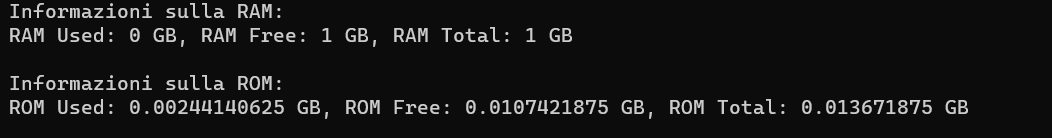
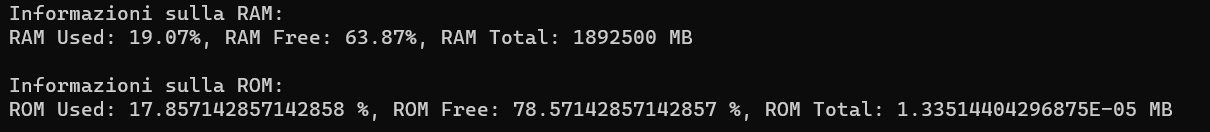
Aggiunta opzioni codice %

Changed region(s): [[0.0, 0.5455, 0.9734, 0.9091], [0.0, 0.1818, 0.5779, 0.3636], [0.0, 0.0, 0.2738, 0.1515]]

diff --git a/Lettura_dati_Raspberry/Lettura_dati_Raspberry/Data.cs b/Lettura_dati_Raspberry/Lettura_dati_Raspberry/Data.cs
@@ -33,7 +33,11 @@ class Data
                             ulong usedRam = ulong.Parse(values[2]);
                             ulong freeRam = ulong.Parse(values[3]);
 
-                            return $"RAM Used: {usedRam / (1024 * 1024)} GB, RAM Free: {freeRam / (1024 * 1024)} GB, RAM Total: {totalRam / (1024 * 1024)} GB";
+                            // Converti almeno uno dei valori in double per ottenere risultati decimali
+                            double usedRamPercentage = (double)usedRam / totalRam * 100;
+                            double freeRamPercentage = (double)freeRam / totalRam * 100;
+
+                            return $"RAM Used: {usedRamPercentage:F2}%, RAM Free: {freeRamPercentage:F2}%, RAM Total: {totalRam} MB";
                         }
                     }
                 }
@@ -46,6 +50,7 @@ class Data
             return $"Error: {ex.Message}";
         }
     }
+
 
 
     public string GetRomInfo()
@@ -78,11 +83,11 @@ class Data
                             string usedRomStr = values[2].TrimEnd('G');
                             string freeRomStr = values[3].TrimEnd('G');
 
-                            double totalRom = double.Parse(totalRomStr, CultureInfo.InvariantCulture) * 1024; // Convert GB to MB
-                            double usedRom = double.Parse(usedRomStr, CultureInfo.InvariantCulture) * 1024; // Convert GB to MB
-                            double freeRom = double.Parse(freeRomStr, CultureInfo.InvariantCulture) * 1024; // Convert GB to MB
+                            double totalRom = double.Parse(totalRomStr, CultureInfo.InvariantCulture); // Convert GB to MB
+                            double usedRom = double.Parse(usedRomStr, CultureInfo.InvariantCulture); // Convert GB to MB
+                            double freeRom = double.Parse(freeRomStr, CultureInfo.InvariantCulture); // Convert GB to MB
 
-                            return $"ROM Used: {usedRom / (1024 * 1024)} GB, ROM Free: {freeRom / (1024 * 1024)} GB, ROM Total: {totalRom / (1024 * 1024)} GB";
+                            return $"ROM Used: {(usedRom / totalRom) * 100} %, ROM Free: {(freeRom / totalRom) * 100} %, ROM Total: {totalRom / (1024 * 1024)} MB";
                         }
                     }
                 }

diff --git a/Readme.md b/Readme.md
@@ -94,7 +94,11 @@ public string GetRamInfo()
                         ulong usedRam = ulong.Parse(values[2]);
                         ulong freeRam = ulong.Parse(values[3]);
 
-                        return $"RAM Used: {usedRam / (1024 * 1024)} GB, RAM Free: {freeRam / (1024 * 1024)} GB, RAM Total: {totalRam / (1024 * 1024)} GB";
+                        // Converti almeno uno dei valori in double per ottenere risultati decimali
+                        double usedRamPercentage = (double)usedRam / totalRam * 100;
+                        double freeRamPercentage = (double)freeRam / totalRam * 100;
+
+                        return $"RAM Used: {usedRamPercentage:F2}%, RAM Free: {freeRamPercentage:F2}%, RAM Total: {totalRam} MB";
                     }
                 }
             }
@@ -142,11 +146,11 @@ public string GetRomInfo()
                         string usedRomStr = values[2].TrimEnd('G');
                         string freeRomStr = values[3].TrimEnd('G');
 
-                        double totalRom = double.Parse(totalRomStr, CultureInfo.InvariantCulture) * 1024; // Convert GB to MB
-                        double usedRom = double.Parse(usedRomStr, CultureInfo.InvariantCulture) * 1024; // Convert GB to MB
-                        double freeRom = double.Parse(freeRomStr, CultureInfo.InvariantCulture) * 1024; // Convert GB to MB
+                        double totalRom = double.Parse(totalRomStr, CultureInfo.InvariantCulture); // Convert GB to MB
+                        double usedRom = double.Parse(usedRomStr, CultureInfo.InvariantCulture); // Convert GB to MB
+                        double freeRom = double.Parse(freeRomStr, CultureInfo.InvariantCulture); // Convert GB to MB
 
-                        return $"ROM Used: {usedRom / (1024 * 1024)} GB, ROM Free: {freeRom / (1024 * 1024)} GB, ROM Total: {totalRom / (1024 * 1024)} GB";
+                        return $"ROM Used: {(usedRom / totalRom) * 100} %, ROM Free: {(freeRom / totalRom) * 100} %, ROM Total: {totalRom / (1024 * 1024)} MB";
                     }
                 }
             }
